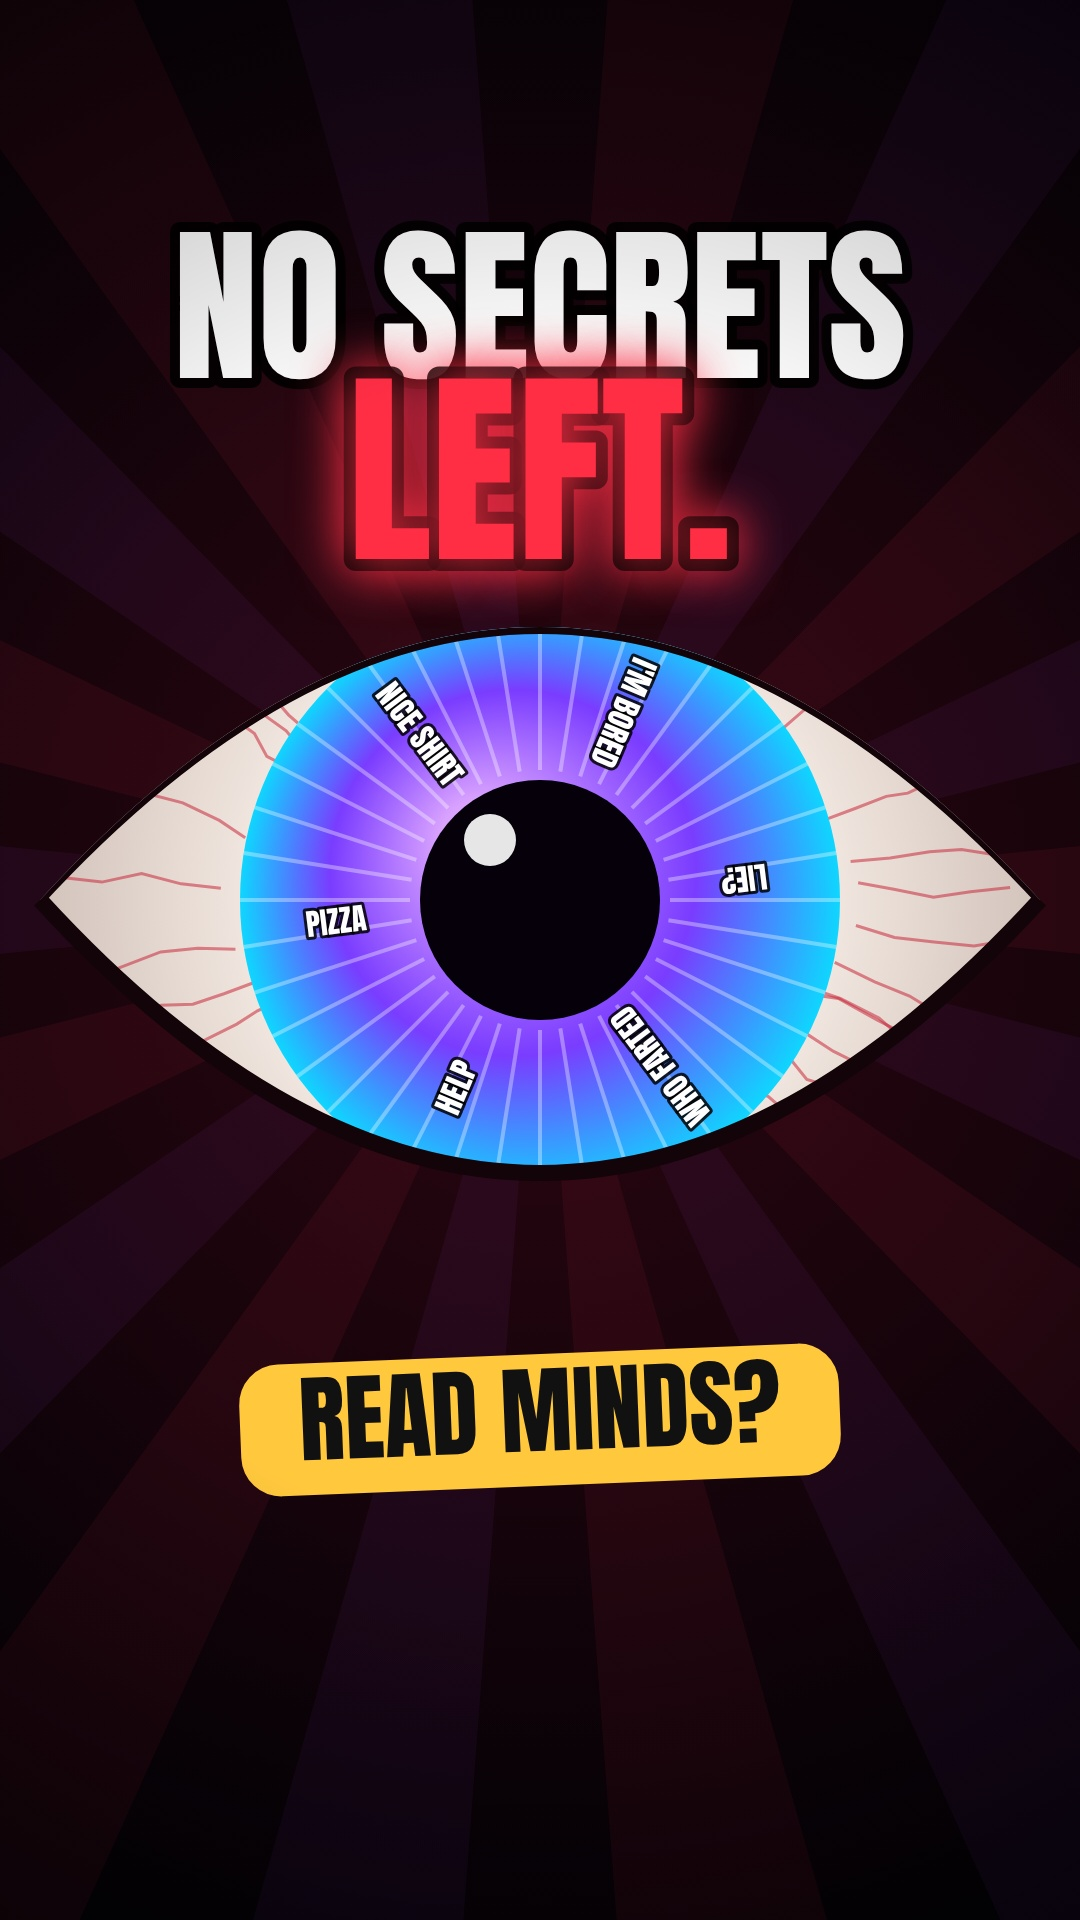
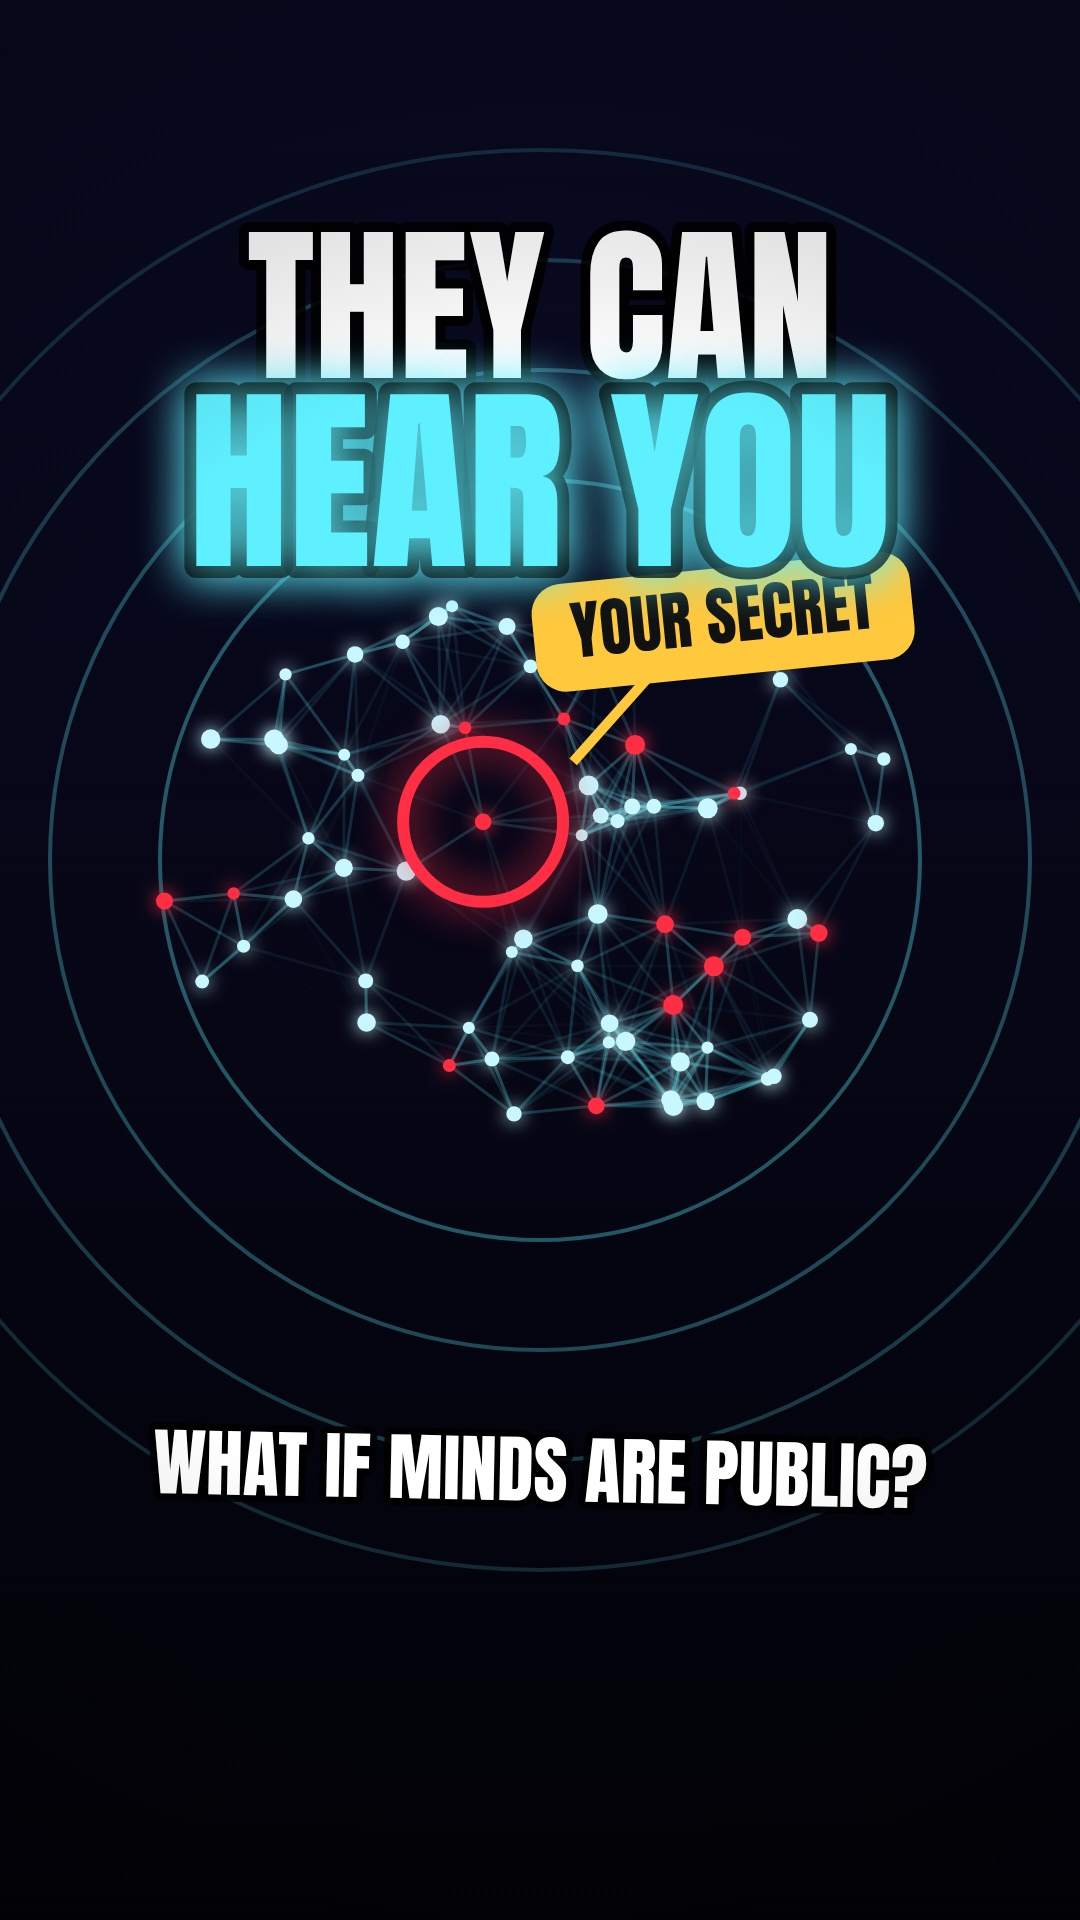
8.video kapağı v3 (beyin ağı konsepti)
Claude-Session: https://claude.ai/code/session_017usCC1MauyHjybwfcqBhd3

diff --git a/videos/mind-read/cover.js b/videos/mind-read/cover.js
@@ -1,40 +1,23 @@
-// YT Shorts kapak v2 — "What If Humans Could Read Minds?" (1080×1920)
+// YT Shorts kapak v3 — "What If Humans Could Read Minds?" (1080×1920)
 window.draw = function (t) {
   ctx.setTransform(1, 0, 0, 1, 0, 0);
-  const cx = W / 2, cy = 900, R = 470;
-  // arka plan: koyu kırmızı-siyah
-  const bg = ctx.createRadialGradient(cx, cy, 80, cx, cy, 1100); bg.addColorStop(0, '#2a0610'); bg.addColorStop(1, '#030106');
-  ctx.fillStyle = bg; ctx.fillRect(0, 0, W, H);
-  // arka planda dönen ışın
-  ctx.save(); ctx.translate(cx, cy); for (let i = 0; i < 18; i++) { ctx.rotate(TAU / 18); ctx.fillStyle = i % 2 ? 'rgba(255,60,90,.07)' : 'rgba(180,90,255,.06)'; ctx.beginPath(); ctx.moveTo(0, 0); ctx.lineTo(1400, -140); ctx.lineTo(1400, 140); ctx.fill(); } ctx.restore();
-  // göz (badem)
-  const w = 1000, h = 520;
-  ctx.save(); ctx.beginPath(); ctx.moveTo(cx - w / 2, cy); ctx.quadraticCurveTo(cx, cy - h * 1.05, cx + w / 2, cy); ctx.quadraticCurveTo(cx, cy + h * 1.05, cx - w / 2, cy); ctx.closePath(); ctx.clip();
-  const sc = ctx.createRadialGradient(cx, cy, 200, cx, cy, 560); sc.addColorStop(0, '#fff7f0'); sc.addColorStop(1, '#c9b8b0'); ctx.fillStyle = sc; ctx.fillRect(0, 0, W, H);
-  // damar
-  ctx.strokeStyle = 'rgba(200,40,60,.55)'; ctx.lineWidth = 3; const Rn = RN(11);
-  for (let i = 0; i < 26; i++) { const a = Rn() * TAU, r0 = 320; ctx.beginPath(); let x = cx + Math.cos(a) * r0, y = cy + Math.sin(a) * r0 * .5; ctx.moveTo(x, y); for (let k = 0; k < 4; k++) { x += Math.cos(a + (Rn() - .5)) * 40; y += Math.sin(a + (Rn() - .5)) * 25; ctx.lineTo(x, y); } ctx.stroke(); }
-  // iris
-  const ir = 300, ig = ctx.createRadialGradient(cx - 60, cy - 60, 40, cx, cy, ir); ig.addColorStop(0, '#d9a2ff'); ig.addColorStop(.55, '#7a3cff'); ig.addColorStop(1, '#0fd6ff');
-  ctx.fillStyle = ig; ctx.beginPath(); ctx.arc(cx, cy, ir, 0, TAU); ctx.fill();
-  ctx.strokeStyle = 'rgba(255,255,255,.35)'; ctx.lineWidth = 4; for (let i = 0; i < 40; i++) { const a = i / 40 * TAU; ctx.beginPath(); ctx.moveTo(cx + Math.cos(a) * 130, cy + Math.sin(a) * 130); ctx.lineTo(cx + Math.cos(a) * ir, cy + Math.sin(a) * ir); ctx.stroke(); }
-  // iris içinde dönen düşünce kelimeleri
-  const words = ['I\'M BORED', 'LIE?', 'WHO FARTED', 'HELP', 'PIZZA', 'NICE SHIRT'];
-  ctx.save(); ctx.translate(cx, cy); ctx.rotate(t * .4);
-  for (let i = 0; i < words.length; i++) { const a = i / words.length * TAU; ctx.save(); ctx.rotate(a); ctx.translate(0, -205); ctx.rotate(Math.PI / 2); txt(words[i], 0, 0, 30, '#fff', { align: 'center', font: 'Anton', weight: 400, stroke: 6 }); ctx.restore(); }
-  ctx.restore();
-  // bebek
-  ctx.fillStyle = '#05000a'; ctx.beginPath(); ctx.arc(cx, cy, 120, 0, TAU); ctx.fill();
-  ctx.fillStyle = 'rgba(255,255,255,.9)'; ctx.beginPath(); ctx.arc(cx - 50, cy - 60, 26, 0, TAU); ctx.fill();
-  // üst kirpik
-  ctx.strokeStyle = '#120408'; ctx.lineWidth = 22; ctx.lineCap = 'round'; ctx.beginPath(); ctx.moveTo(cx - w / 2 - 10, cy + 2); ctx.quadraticCurveTo(cx, cy - h * 1.05 - 10, cx + w / 2 + 10, cy + 2); ctx.stroke();
-  ctx.restore();
-  // alt kirpik kalın çizgi
-  ctx.strokeStyle = '#120408'; ctx.lineWidth = 16; ctx.beginPath(); ctx.moveTo(cx - w / 2, cy); ctx.quadraticCurveTo(cx, cy + h * 1.05, cx + w / 2, cy); ctx.stroke();
-  // kanca metni (üst güvenli alan altında)
-  txt('NO SECRETS', W / 2, 330, 170, '#fff', { align: 'center', font: 'Anton', weight: 400, stroke: 20 });
-  txt('LEFT.', W / 2, 500, 210, '#ff2e45', { align: 'center', font: 'Anton', weight: 400, stroke: 24, glow: '#ff2e45', blur: 50 });
-  // alt etiket
-  ctx.save(); ctx.translate(W / 2, 1420); ctx.rotate(-.04); ctx.fillStyle = '#ffc83d'; ctx.beginPath(); ctx.roundRect(-300, -66, 600, 132, 40); ctx.fill(); txt('READ MINDS?', 0, 4, 96, '#111', { align: 'center', font: 'Anton', weight: 400, stroke: 0 }); ctx.restore();
-  vignette(.55);
+  const bg = ctx.createLinearGradient(0, 0, 0, H); bg.addColorStop(0, '#0a0a24'); bg.addColorStop(1, '#020208'); ctx.fillStyle = bg; ctx.fillRect(0, 0, W, H);
+  const cx = W / 2, cy = 860;
+  // radar halkaları
+  for (let i = 0; i < 4; i++) { ctx.strokeStyle = `rgba(95,240,255,${.35 - i * .06})`; ctx.lineWidth = 4; ctx.beginPath(); ctx.arc(cx, cy, 380 + i * 110, 0, TAU); ctx.stroke(); }
+  // beyin ağı: beyin benzeri elips içinde düğümler
+  const R = RN(21), nodes = [];
+  while (nodes.length < 70) { const x = (R() - .5) * 2, y = (R() - .5) * 2; if (x * x / .85 + y * y / .6 <= 1) nodes.push([cx + x * 420, cy + y * 360]); }
+  ctx.lineWidth = 3; nodes.forEach((a, i) => nodes.slice(i + 1).forEach(b => { const d = Math.hypot(a[0] - b[0], a[1] - b[1]); if (d < 150) { ctx.strokeStyle = `rgba(95,240,255,${.45 * (1 - d / 150)})`; ctx.beginPath(); ctx.moveTo(a[0], a[1]); ctx.lineTo(b[0], b[1]); ctx.stroke(); } }));
+  nodes.forEach(([x, y], i) => { const p = .5 + .5 * Math.sin(t * 3 + i); ctx.fillStyle = i % 5 === 0 ? '#ff2e45' : '#c8f7ff'; ctx.shadowColor = ctx.fillStyle; ctx.shadowBlur = 18; ctx.beginPath(); ctx.arc(x, y, 6 + p * 4, 0, TAU); ctx.fill(); }); ctx.shadowBlur = 0;
+  // hedef düğüm: kırmızı halka
+  const tgt = nodes[0]; ctx.strokeStyle = '#ff2e45'; ctx.lineWidth = 12; ctx.shadowColor = '#ff2e45'; ctx.shadowBlur = 40; ctx.beginPath(); ctx.arc(tgt[0], tgt[1], 80, 0, TAU); ctx.stroke(); ctx.shadowBlur = 0;
+  ctx.save(); ctx.translate(tgt[0] + 240, tgt[1] - 200); ctx.rotate(-.1); ctx.fillStyle = '#ffc83d'; ctx.beginPath(); ctx.roundRect(-190, -54, 380, 108, 30); ctx.fill(); txt('YOUR SECRET', 0, 3, 64, '#111', { align: 'center', font: 'Anton', weight: 400, stroke: 0 }); ctx.restore();
+  ctx.strokeStyle = '#ffc83d'; ctx.lineWidth = 10; ctx.beginPath(); ctx.moveTo(tgt[0] + 170, tgt[1] - 150); ctx.lineTo(tgt[0] + 90, tgt[1] - 60); ctx.stroke();
+  // kanca metni
+  txt('THEY CAN', W / 2, 330, 170, '#fff', { align: 'center', font: 'Anton', weight: 400, stroke: 20 });
+  txt('HEAR YOU', W / 2, 510, 200, '#5ff0ff', { align: 'center', font: 'Anton', weight: 400, stroke: 24, glow: '#5ff0ff', blur: 45 });
+  // alt başlık
+  ctx.save(); ctx.translate(W / 2, 1480); ctx.rotate(.02); txt('WHAT IF MINDS ARE PUBLIC?', 0, 0, fit('WHAT IF MINDS ARE PUBLIC?', 74, 960, 'Anton', 400), '#fff', { align: 'center', font: 'Anton', weight: 400, stroke: 14 }); ctx.restore();
+  vignette(.5);
 };
